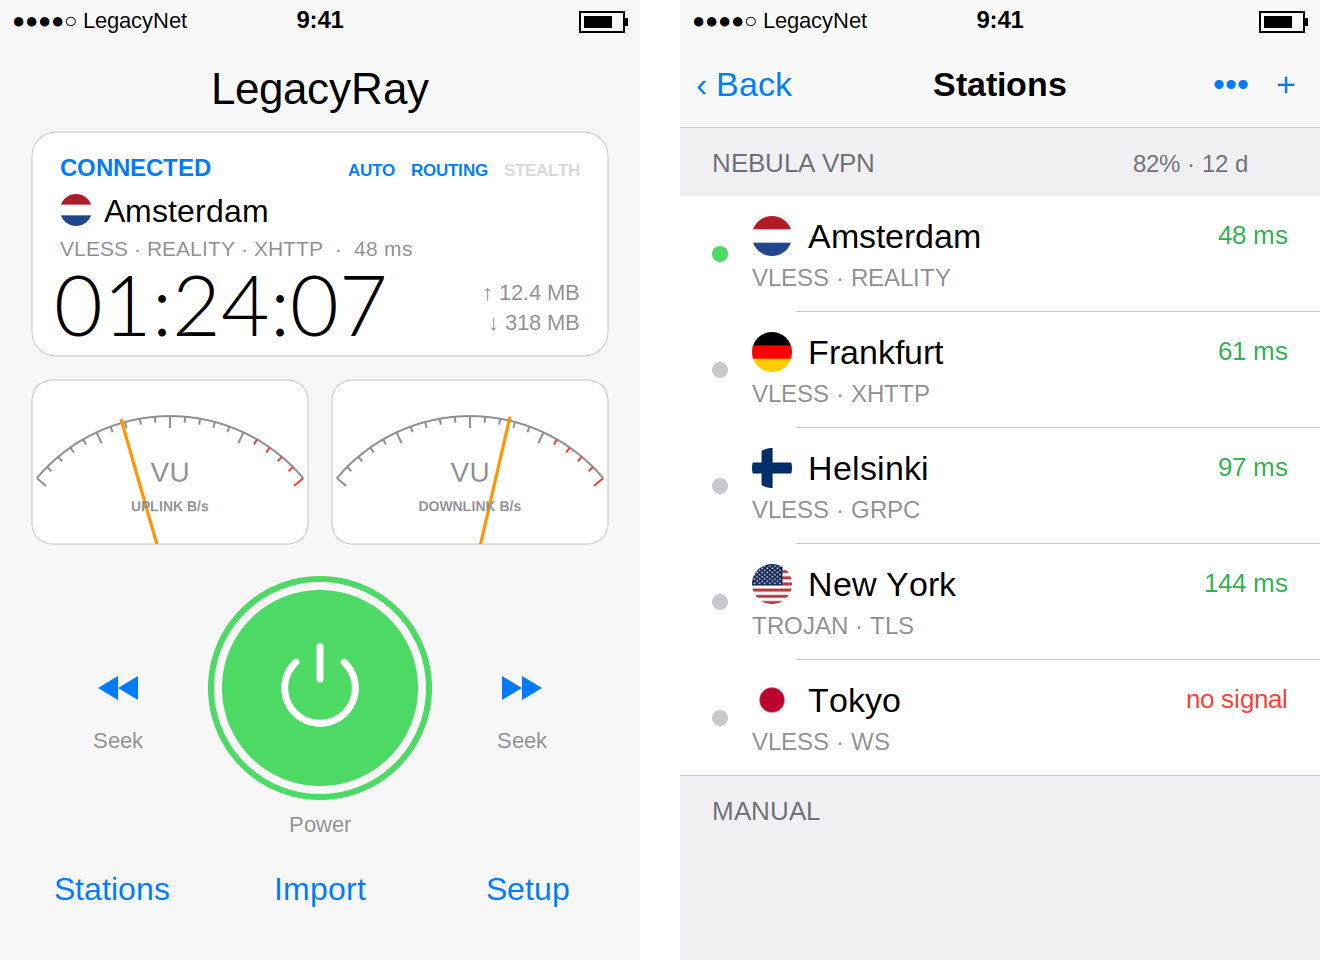
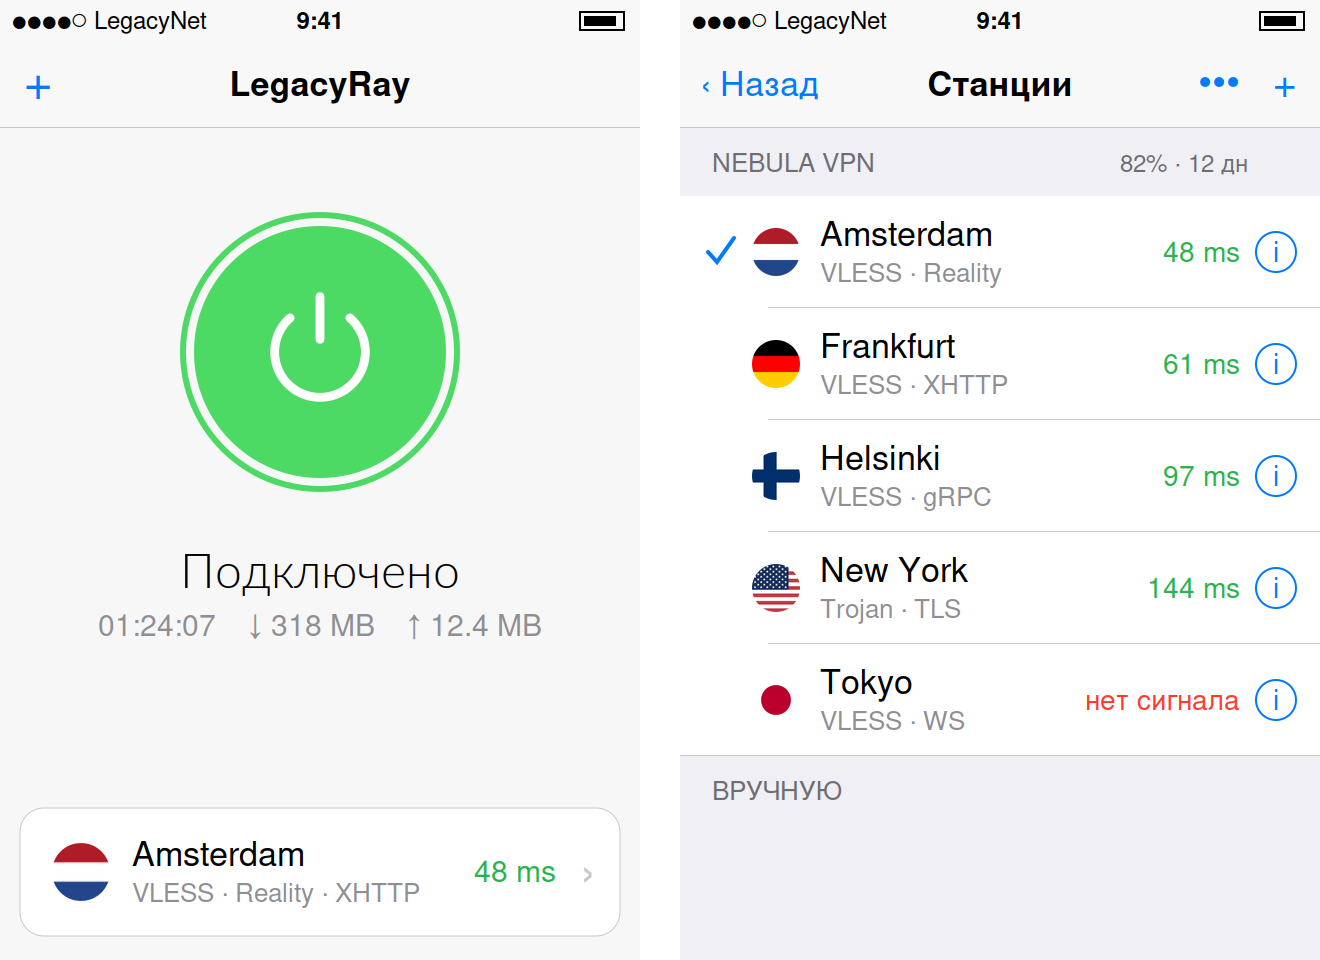
README and previews for the iOS 6 redesign and the site modes

diff --git a/README.md b/README.md
@@ -1,9 +1,10 @@
 # LegacyRay
 
 Клиент VLESS / Trojan / Shadowsocks / SOCKS / AmneziaWG / WireGuard для всего
-устройства на **iOS 4.0 – 7.x** (джейлбрейк, armv7). На iOS 4–6 — лицевая
-панель винтажного Hi‑Fi ресивера в духе iOS 6, на iOS 7 — родной плоский
-интерфейс iOS 7. Отдельная раскладка для iPad. Всё, что делают Happ и
+устройства на **iOS 4.0 – 7.x** (джейлбрейк, armv7). На iOS 4–6 — интерфейс
+в духе самих приложений Apple для iOS 6: панели из чёрного денима с медной
+строчкой (как на иконке), одна большая кнопка и стандартные таблицы iOS 6;
+на iOS 7 — родной плоский интерфейс iOS 7. Раскладка split view для iPad. Всё, что делают Happ и
 Amnezia VPN и что возможно на этих системах, включая настройку своего
 сервера по SSH. Особое внимание — батарее старых iPhone.
 
@@ -12,7 +13,7 @@ LegacyRay — форк [senko](https://github.com/sqmrak/senko) (sqmrak, GPL‑2
 Набор функций повторяет [vless-core-app](https://github.com/notfence/vless-core-app)
 (notfence), Happ и Amnezia VPN — **код оттуда не использовался**, только идеи.
 
-![Silver](docs/preview-silver-iphone.png)
+![Классика, iPhone](docs/preview-classic-iphone.png)
 
 > Картинки в `docs/` — рендеры прототипа отрисовки (`scripts/design`, Cairo),
 > по которым делался CoreGraphics‑код. На устройстве детали могут отличаться.
@@ -29,7 +30,7 @@ LegacyRay — форк [senko](https://github.com/sqmrak/senko) (sqmrak, GPL‑2
 | Статистика рассылалась раз в секунду всем подключениям | Только подписчику `WATCH` (приложению на экране), с арендой на 45 с |
 | AmneziaWG: `poll` раз в секунду и новое рукопожатие **каждые 2 минуты даже без трафика** (будит сотовый модем) | Таймеры как в WireGuard: ключи обновляются, только когда идёт трафик; keepalive можно ограничить временем, пока включён экран |
 | Приложение каждую секунду открывало новое соединение с демоном, а для AWG — **запускало setuid‑процесс каждую секунду** | Одно постоянное соединение (GCD) + Darwin‑уведомления; для AWG — чтение файла статуса |
-| Стрелки VU‑метров — пересчёт пружины 30 раз в секунду в приложении | Траектория считается один раз, анимирует системный рендер‑сервер |
+| Главный экран с VU‑метрами и «дисплеем», которые перерисовывались каждую секунду | Одна кнопка и две строки текста; единственная анимация — медленная пульсация значка, пока идёт подключение |
 | OpenSSL без ассемблера (`no-asm`), сервер выбирал AES‑GCM, которого нет в «железе» armv7 | OpenSSL с NEON‑ассемблером; в ClientHello ChaCha20 идёт первым (как у Chrome на процессорах без AES), и сервер выбирает его |
 | Хук `connect()` писал строку в лог на каждое соединение в каждом приложении | Только в режиме отладки (Диагностика) |
 
@@ -37,11 +38,17 @@ LegacyRay — форк [senko](https://github.com/sqmrak/senko) (sqmrak, GPL‑2
 
 | Тема | Что это |
 |---|---|
-| **Silver** | шлифованный алюминий, синий VFD‑дисплей, кремовые VU‑метры, седельная кожа в журнале станций, латунные таблички с винтами |
-| **Graphite** | тёмный металл, янтарный дисплей, чёрная кожа |
-| **Flat** | iOS 7: белые карточки, волосяные линии, синие текстовые кнопки, матовые полупрозрачные шапки, тонкие крупные цифры |
-| **Автоматически** | Flat на iOS 7+, классика (Silver/Graphite) на iOS 4–6 |
-| **Классика по времени** | Silver днём, Graphite с 20:00 до 7:00 |
+| **Классическая** | iOS 6 так, как её сделала бы Apple: панели навигации из чёрного денима с медной строчкой, главный экран из того же денима с одной «жемчужной» кнопкой в прошитом гнезде (значок серый в покое, янтарный при подключении, зелёный, когда туннель поднят), под ней состояние и карточка станции; всё остальное — стандартные сгруппированные таблицы iOS 6 (полоски, белые ячейки, синие значения, переключатели ВКЛ/ВЫКЛ, синие кнопки ›), алерты и action sheet iOS 6 |
+| **Плоская** | iOS 7: белые карточки, волосяные линии, синие текстовые кнопки, матовые полупрозрачные шапки, тонкие крупные цифры |
+| **Автоматически** | плоская на iOS 7+, классическая на iOS 4–6 |
+
+Иконка — ваш логотип (`art/logo.png` → `scripts/icon_from_logo.py` →
+`art/icon-1024.png` → все размеры), из неё же взята текстура: тайл денима
+(`denim.png`, `denim@2x.png`) сгенерирован бесшовным, для 1x и Retina — свой, без
+муара. Экранных картинок в памяти нет: деним и полоски — узорные цвета,
+освещение главного экрана — маленький градиент, растянутый по экрану.
+
+![Плоская, iPhone](docs/preview-flat-iphone.png)
 
 **iOS 7 — родной режим.** Приложение собирается с SDK 6.1 (чтобы работать на
 iOS 4), но в заголовке бинарника помечено как собранное под SDK 7.0
@@ -51,15 +58,15 @@ iOS 4), но в заголовке бинарника помечено как с
 анимации iOS 7, списки прокручиваются под матовой шапкой. Для iOS 7 — свои
 плоские launch‑картинки. iOS 4–6 эту пометку не читают.
 
-Всё рисуется кодом (CoreGraphics): текстуры генерируются один раз и
-кэшируются, одинаково чётко на обычных и Retina‑экранах.
+Всё, кроме тайла денима, рисуется кодом (CoreGraphics) и кэшируется;
+одинаково чётко на обычных и Retina‑экранах.
 
 ### iPad
 
-![iPad](docs/preview-silver-ipad.png)
+![iPad](docs/preview-classic-ipad.png)
 
-* **Ландшафт** — журнал станций слева, ресивер справа, в ореховом корпусе.
-* **Портрет** — ресивер сверху («метр · ручка · метр»), журнал снизу.
+* Split view, как «Настройки» iOS 6 на iPad: станции слева (320 pt), главный
+  экран справа — в обеих ориентациях.
 * Настройки, детали, «Поделиться» — form sheet; меню — поповеры.
 * На iOS 4 контейнер ведёт дочерние контроллеры вручную (containment API
   появился в iOS 5).
@@ -92,10 +99,27 @@ WebSocket, XHTTP, gRPC), Trojan, Shadowsocks, SOCKS5/HTTP(S), AmneziaWG
 |---|---|
 | **Свой сервер**: адрес VPS + пароль root или ключ → LegacyRay по SSH ставит Xray Reality (любой Linux с systemd) и/или AmneziaWG (Ubuntu), с проверкой отпечатка ключа сервера и живым журналом установки | меню «+» → «Настроить свой сервер», Настройки → Свои серверы |
 | Управление сервером: состояние служб, клиенты (добавить → QR/ссылка/.conf, отозвать), перезапуск, удаление | Свои серверы → сервер |
-| Несколько профилей AmneziaWG/WireGuard в журнале станций, параметры обфускации (Jc, Jmin, Jmax, S1–S4, H1–H4, keepalive, MTU) с правкой по одному, проверка рукопожатия, экспорт `.conf`/QR | журнал станций → AmneziaWG |
+| Несколько профилей AmneziaWG/WireGuard в списке станций, параметры обфускации (Jc, Jmin, Jmax, S1–S4, H1–H4, keepalive, MTU) с правкой по одному, проверка рукопожатия, экспорт `.conf`/QR | Станции → AmneziaWG |
 | Импорт ключей `vpn://` и `.conf` | «+» |
-| Раздельное туннелирование по сайтам: «всё, кроме списка» / «только список», импорт/экспорт списков Amnezia (JSON) и текстовых | Маршрутизация → Раздельное туннелирование |
+| Раздельное туннелирование по сайтам: «всё, кроме списка» / «только список», импорт/экспорт списков Amnezia (JSON) и текстовых | Настройки → Сайты |
 | Kill switch: пока туннель поднят, UDP (кроме DNS/NTP) не выходит мимо него | Настройки → Безопасность и сеть |
+
+**Сайты: два режима.** Каждый сайт в списке раздельного туннелирования (и в
+правилах маршрутизации) сопоставляется одним из двух способов:
+
+| Режим | Что охватывает | Пример |
+|---|---|---|
+| **Конкретный домен** | только это имя, любые страницы | `xyz.abc.com` → `xyz.abc.com/*`; `abc.com` → `abc.com/*` (но не `www.abc.com`) |
+| **Головной домен** | головной домен и все имена под ним | `abc.com` → `abc.com/*` и `*.abc.com/*`; `music.youtube.com` → `*.youtube.com/*` |
+
+Головной домен вычисляется с учётом составных зон (`news.bbc.co.uk` →
+`bbc.co.uk`, `site.com.ru`, `user.github.io`); `*.abc.com` берётся как есть.
+Можно вставить ссылку целиком — останется имя; кириллические домены
+(`госуслуги.рф`) переводятся в punycode и показываются обратно по‑русски.
+Путь (`/*`) на выбор не влияет: маршрутизация видит имя сайта (DNS, SNI), а не
+страницу, поэтому правило всегда охватывает все страницы. Режим сайта можно
+поменять, нажав на него. Разбор — `app/Sources/Core/lr_site.c`, тесты —
+`tests/test_site.c` (включая векторы RFC 3492 и сопоставление правилами демона).
 
 **Как в vless-core-app** — всё из первой версии: сворачиваемые и
 перетаскиваемые подписки, импорт (буфер, QR с фонариком и из «Фото», файл,
@@ -164,8 +188,9 @@ app/            интерфейс (Objective-C, MRC)
   Sources/Core      клиент демона и поток WATCH, каталог, туннель, импорт, профили AWG и
                     маршрутизации, SSH-серверы, QR-кодер, напоминания, JSON (cJSON), локализация
   Sources/Skin      палитры тем и примитивы CoreGraphics
-  Sources/Controls  кнопки, ручка питания, VU-метр, дисплей, шкала, тумблер, алерты, меню, тосты, ячейки
-  Sources/Screens   консоль, журнал станций, AWG, «Поделиться», маршрутизация/сайты/геобазы,
+  Sources/Controls  кнопки iOS 6, большая кнопка, карточка станции, переключатель, алерты, меню,
+                    тосты, сгруппированные ячейки, строки станций
+  Sources/Screens   главный экран, станции, AWG, «Поделиться», маршрутизация/сайты/геобазы,
                     свои серверы, настройки, диагностика…
   Sources/iPad      контейнер iPad
   Resources         Info.plist, иконки, launch-картинки (iOS 4–6 и iOS 7), звуки, флаги,
@@ -174,7 +199,9 @@ daemon/         legacyrayd, legacyrayctl, legacyray-kick, legacyrayawgd, legacyr
 tweaks/         legacyraytlsfix (TLS + хук connect), legacyraystatus (значок VPN)
 layout/         содержимое пакета и DEBIAN-скрипты
 tests/          хост-тесты
-scripts/        зависимости, ресурсы, локализация, генератор проекта Xcode, пометка SDK, прототип дизайна
+scripts/        зависимости, ресурсы, иконка из логотипа, локализация, генератор проекта Xcode,
+                пометка SDK, прототип дизайна (scripts/design: classic.py и макеты)
+art/            логотип и мастер иконки 1024×1024
 ```
 
 Пути на устройстве: демон `/usr/bin/legacyrayd`, сокет `/var/tmp/legacyrayd.sock`,
@@ -188,8 +215,8 @@ scripts/        зависимости, ресурсы, локализация, 
 Проверено здесь: демон, помощники, твики и приложение собираются под armv7 /
 iOS 4.0 без ошибок (предупреждения — только об устаревших RSA‑функциях
 OpenSSL 3 в `happ.c` из senko); все внешние символы есть в iOS ≤ 4.0 (поздние —
-weak или через `respondsToSelector`/`dlsym`); хост‑тесты проходят — 45
-программ, включая новые проверки geosite/geoip (на фикстурах и на настоящем
+weak или через `respondsToSelector`/`dlsym`); хост‑тесты проходят — 46
+программ, включая разбор сайтов и punycode, включая новые проверки geosite/geoip (на фикстурах и на настоящем
 `dlc.dat`), фрагментации, kill switch, `WATCH`, ChaCha‑порядка, хранения
 заголовка `routing` и круговой тест QR‑кодера через ZBar для версий 1–40.
 Число пробуждений демона в простое измерено под `strace` на хосте.
@@ -197,6 +224,9 @@ weak или через `respondsToSelector`/`dlsym`); хост‑тесты пр
 **Не проверено на реальных устройствах и серверах** — у меня нет железа с
 iOS 4–7 и VPS. В первую очередь стоит проверить:
 * запуск демона через `legacyray-kick`, перехват трафика (pf на iOS 7, хук на iOS 4);
+* новый классический дизайн на iOS 4–6: превью в `docs/` — рендеры прототипа
+  на Cairo, а не снимки устройства (деним, переключатели, алерты и меню
+  нарисованы кодом и на железе ни разу не запускались);
 * родной режим iOS 7: отступы под статус‑баром, матовые шапки, iPad в обеих ориентациях;
 * сборку OpenSSL с NEON‑ассемблером (правка `ios32` проверена по релокациям, но не запуском);
 * «Свой сервер»: `legacyray-ssh` и `lr-server.sh` на чистом Ubuntu/Debian VPS
